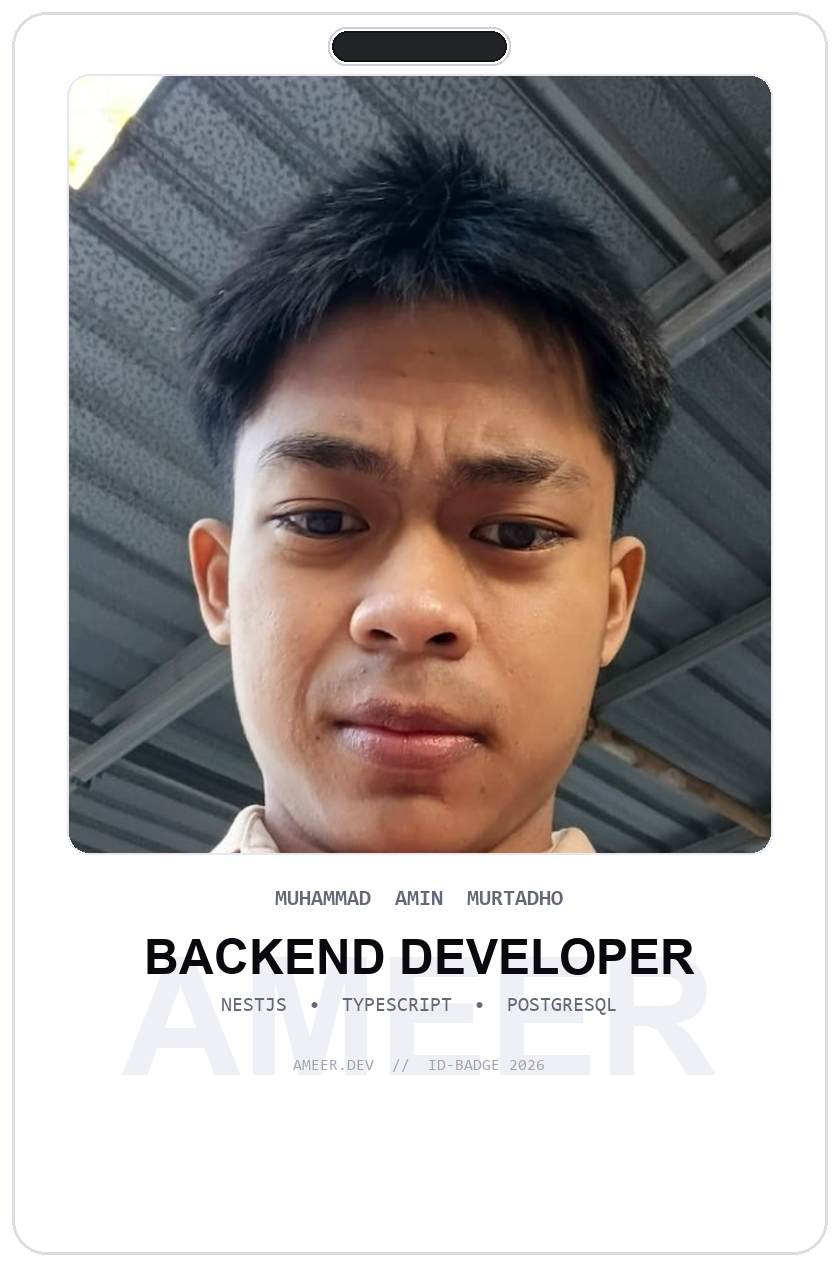
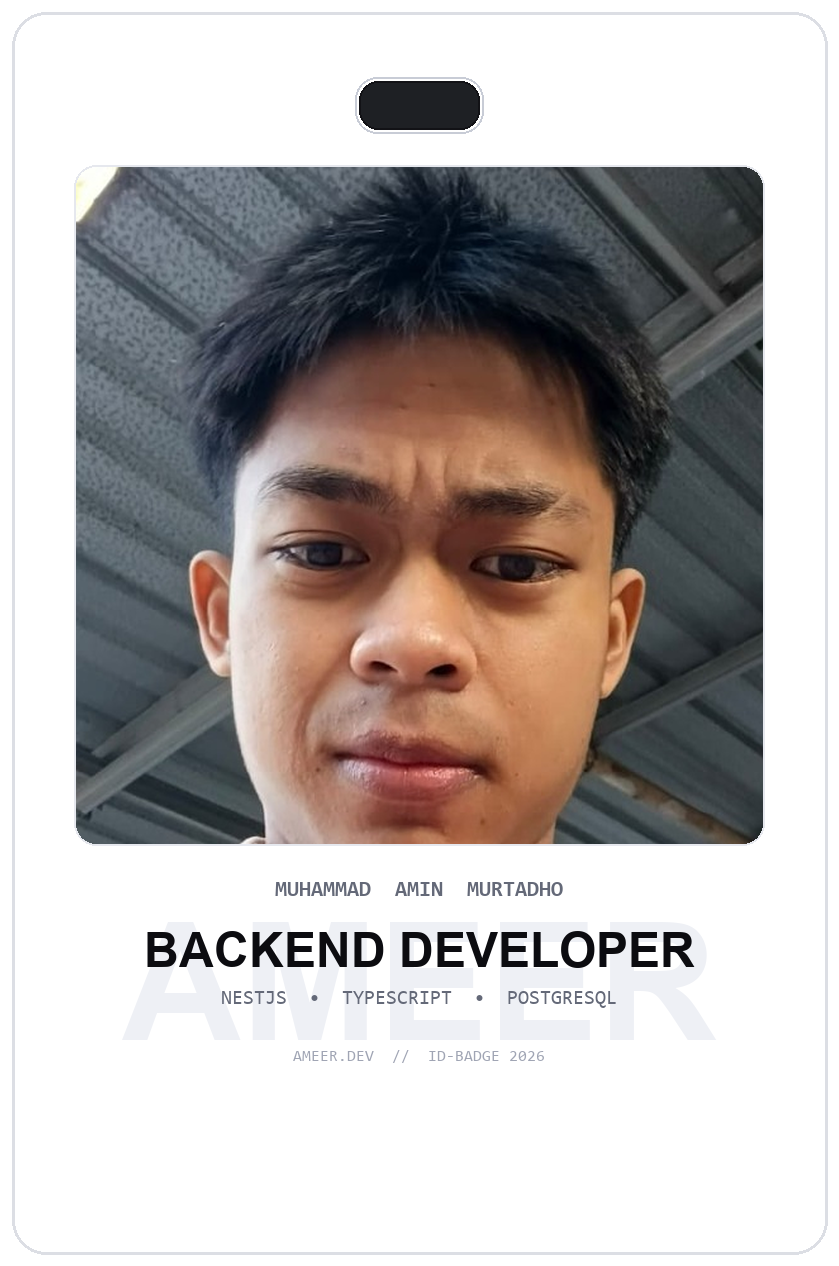
fix: align lanyard strap with clip hole and calibrate card punch-hole texture

diff --git a/src/components/ui/lanyard-3d.tsx b/src/components/ui/lanyard-3d.tsx
@@ -48,7 +48,7 @@ function Band({
   frontImage = "/images/id-card-front.png",
   backImage = "/images/id-card-back.png",
   lanyardImage = "/assets/lanyard/lanyard_amin.png",
-  lanyardWidth = 0.68,
+  lanyardWidth = 0.36,
 }: {
   maxSpeed?: number;
   minSpeed?: number;
@@ -70,11 +70,11 @@ function Band({
   const rot = useMemo(() => new THREE.Vector3(), []);
   const dir = useMemo(() => new THREE.Vector3(), []);
 
-  const segmentProps = useMemo(
+  const segmentProps: any = useMemo(
     () => ({
-      type: "dynamic" as const,
+      type: "dynamic",
       canSleep: true,
-      colliders: false as const,
+      colliders: false,
       angularDamping: 4,
       linearDamping: 4,
     }),
@@ -147,13 +147,26 @@ function Band({
   const [dragged, drag] = useState<THREE.Vector3 | false>(false);
   const [hovered, hover] = useState(false);
 
+  const { width: vpWidth, height: vpHeight } = useThree((state) => state.viewport);
+  const { width: sizeW, height: sizeH } = useThree((state) => state.size);
+  const anchorX = isMobile ? 0 : Math.min(3.8, Math.max(1.8, vpWidth * 0.28));
+  const anchorY = isMobile ? vpHeight / 2 + 0.3 : vpHeight / 2 + 0.6;
+  const cardScale = isMobile ? 2.4 : 2.95;
+
+  // Exact attachment calculations from card.glb geometry:
+  // Card mesh center: Y = 0.5229
+  // Clip loop opening center: Y = 1.19, Z = 0
+  // Relative offset from card center: 1.19 - 0.5229 = 0.6671
+  const clipYAnchor = 0.6671 * cardScale;
+  const cardInitialY = -1.8 - clipYAnchor;
+
   // Physics joints connecting rope segments and card
   useRopeJoint(fixed as any, j1 as any, [[0, 0, 0], [0, 0, 0], 0.6]);
   useRopeJoint(j1 as any, j2 as any, [[0, 0, 0], [0, 0, 0], 0.6]);
   useRopeJoint(j2 as any, j3 as any, [[0, 0, 0], [0, 0, 0], 0.6]);
   useSphericalJoint(j3 as any, card as any, [
     [0, 0, 0],
-    [0, 1.45, 0],
+    [0, clipYAnchor, 0],
   ]);
 
   useEffect(() => {
@@ -195,8 +208,8 @@ function Band({
         );
       });
 
-      if (j3.current?.lerped && j2.current?.lerped && j1.current?.lerped && fixed.current) {
-        curve.points[0].copy(j3.current.lerped);
+      if (j3.current && j2.current?.lerped && j1.current?.lerped && fixed.current) {
+        curve.points[0].copy(j3.current.translation() as THREE.Vector3);
         curve.points[1].copy(j2.current.lerped);
         curve.points[2].copy(j1.current.lerped);
         curve.points[3].copy(fixed.current.translation() as THREE.Vector3);
@@ -219,12 +232,6 @@ function Band({
   curve.curveType = "centripetal";
   texture.wrapS = texture.wrapT = THREE.RepeatWrapping;
 
-  const { width: vpWidth, height: vpHeight } = useThree((state) => state.viewport);
-  const { width: sizeW, height: sizeH } = useThree((state) => state.size);
-  const anchorX = isMobile ? 0 : Math.min(3.8, Math.max(1.8, vpWidth * 0.28));
-  const anchorY = isMobile ? vpHeight / 2 + 0.3 : vpHeight / 2 + 0.6;
-  const cardScale = isMobile ? 2.4 : 2.95;
-
   return (
     <>
       <group position={[anchorX, anchorY, 0]}>
@@ -239,15 +246,15 @@ function Band({
           <BallCollider args={[0.08]} />
         </RigidBody>
         <RigidBody
-          position={[0, -3.25, 0]}
+          position={[0, cardInitialY, 0]}
           ref={card}
           {...segmentProps}
           type={dragged ? "kinematicPosition" : "dynamic"}
         >
-          <CuboidCollider args={[0.92, 1.3, 0.01]} />
+          <CuboidCollider args={[0.3582 * cardScale, 0.5000 * cardScale, 0.01]} />
           <group
             scale={cardScale}
-            position={[0, -1.35, -0.05]}
+            position={[0, -0.5229 * cardScale, 0]}
             onPointerOver={() => hover(true)}
             onPointerOut={() => hover(false)}
             onPointerUp={(e: any) => {
@@ -304,7 +311,7 @@ export default function Lanyard3D({
   frontImage = "/images/id-card-front.png",
   backImage = "/images/id-card-back.png",
   lanyardImage = "/assets/lanyard/lanyard_amin.png",
-  lanyardWidth = 0.78,
+  lanyardWidth = 0.36,
   className = "",
 }: Lanyard3DProps) {
   const [isMobile, setIsMobile] = useState(false);
